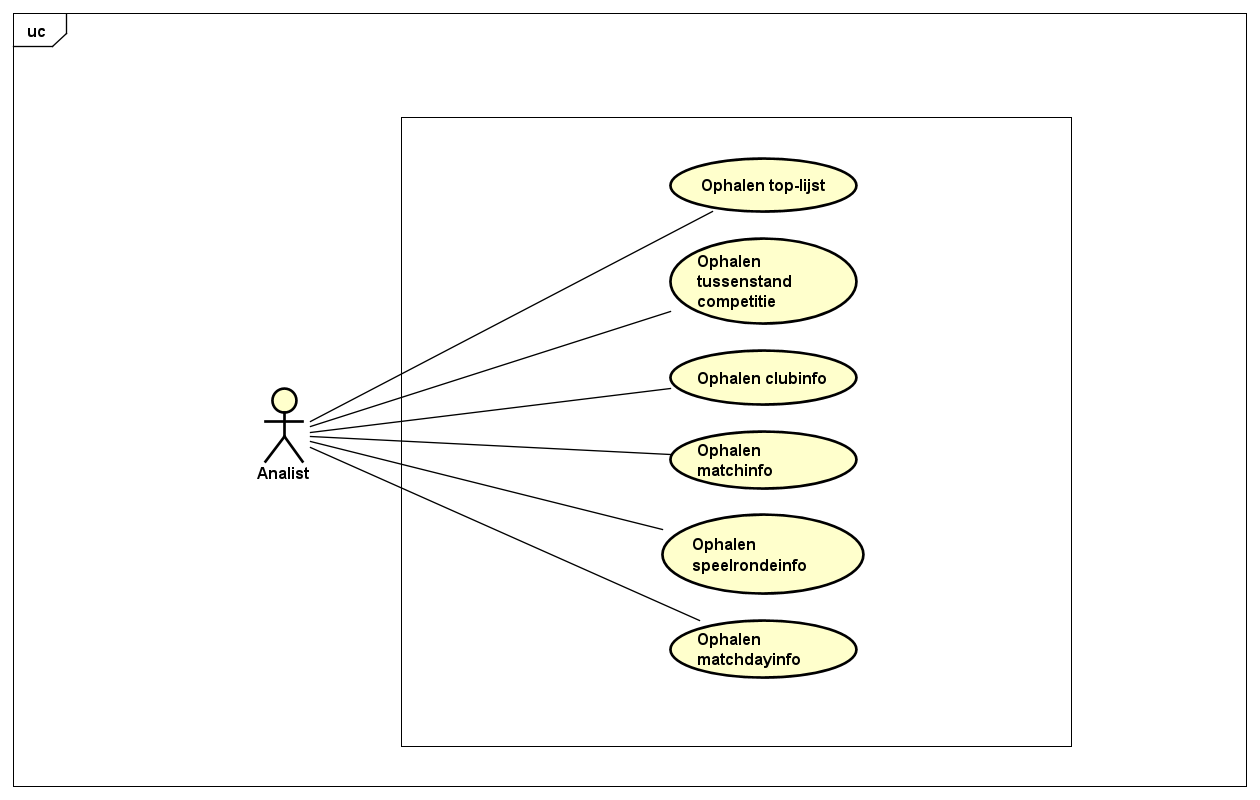
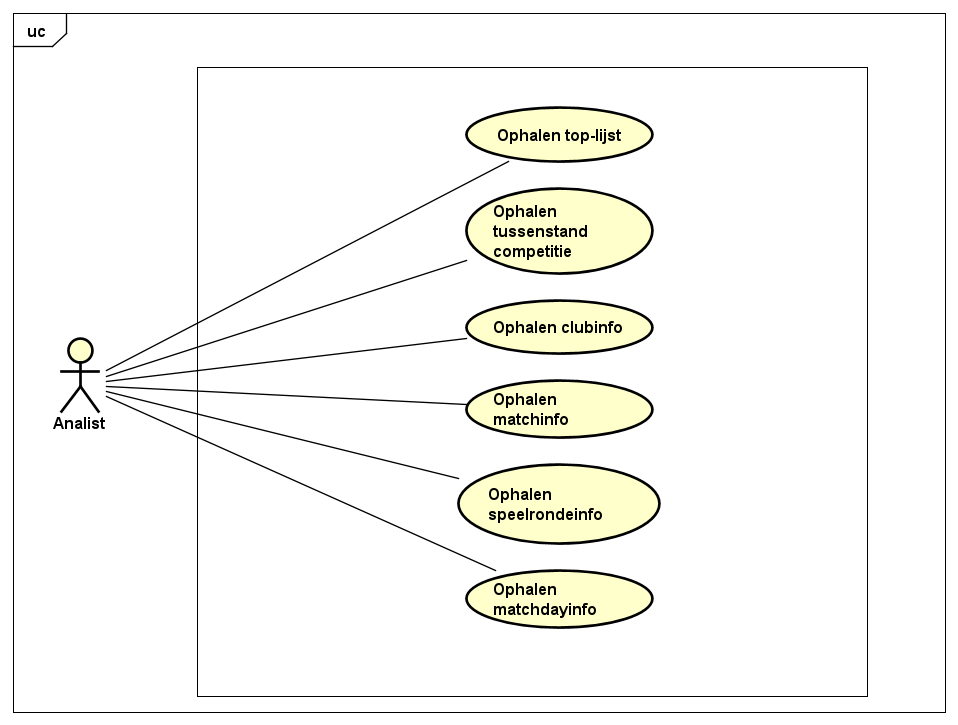
Added the pictures into FO

diff --git a/docs/functioneel_ontwerp.md b/docs/functioneel_ontwerp.md
@@ -106,8 +106,11 @@
 
 # Use cases
 
+## Database
 ![Use case diagram](images/usecase_diagram_nutmeg.png)
 
+## Staging Area
+![Use case diagram](images/UseCase_Staging_Area_Nutmeg.png)
 # Fully-Dressed Use-cases
 <!--- Staging area bij alles nog weggelaten, updaten na onderzoek --->
 |Naam               |Ophalen top-lijst|
@@ -211,7 +214,7 @@
 |Naam               |Overzetten data	|
 |-------------------|-----------------------|
 |Actors             |Time|
-|Stakeholder        ||
+|Stakeholder        |Staging Area|
 |Preconditie        ||
 |Postconditie       |De gegevens vanuit de ene database zijn overgezet naar de andere database.|
 |Brief Description  |Het overzetten van data gebeurt periodiek en vind elke nacht plaats om 2 uur.|
